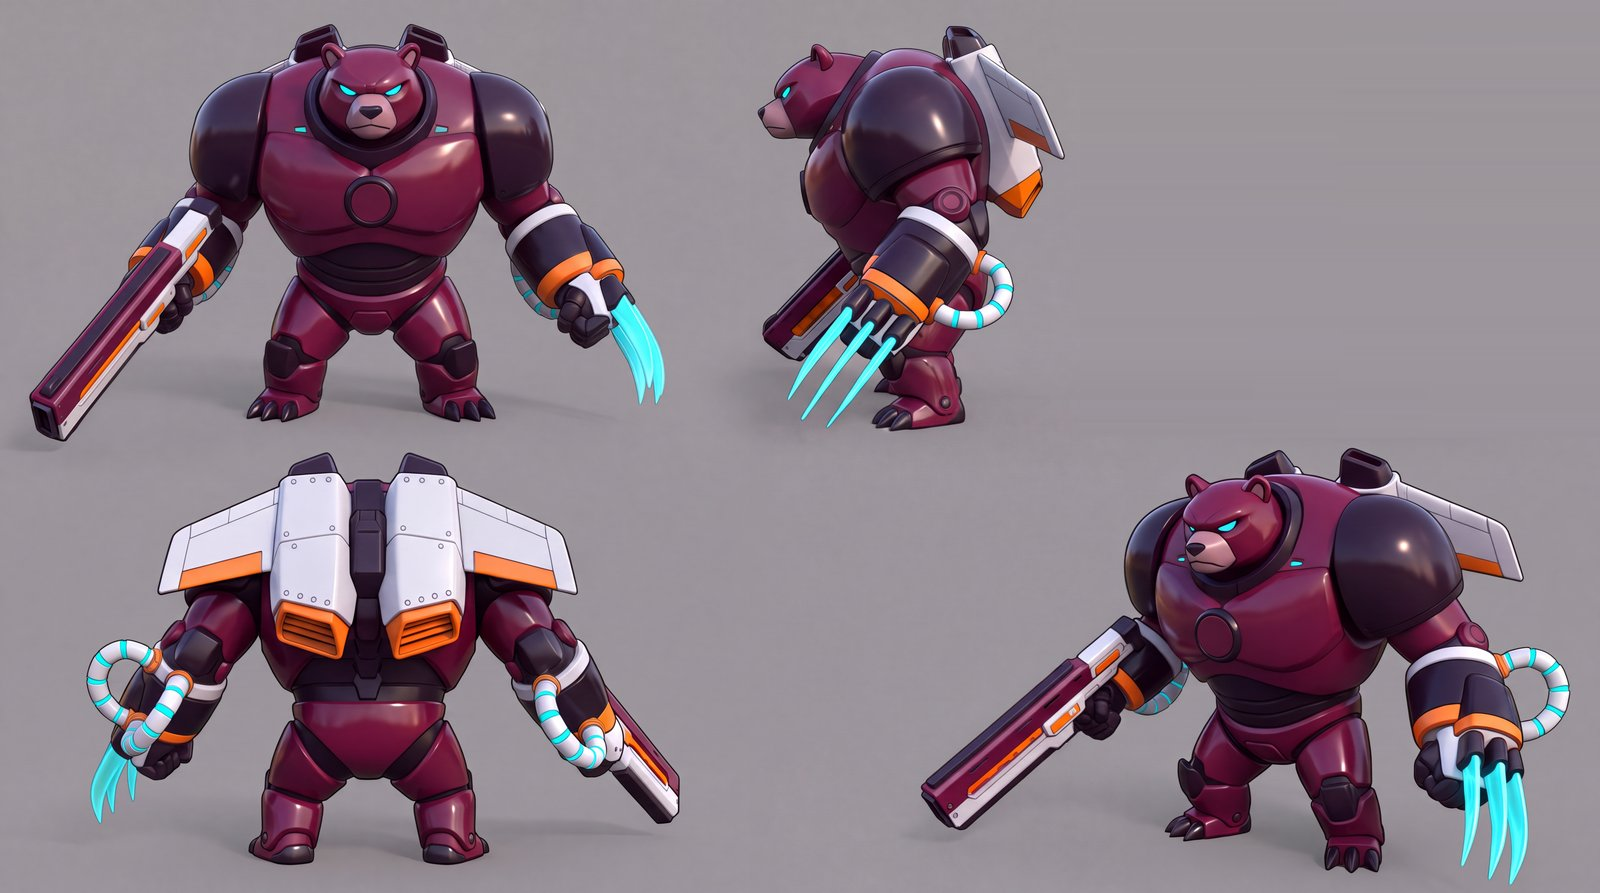
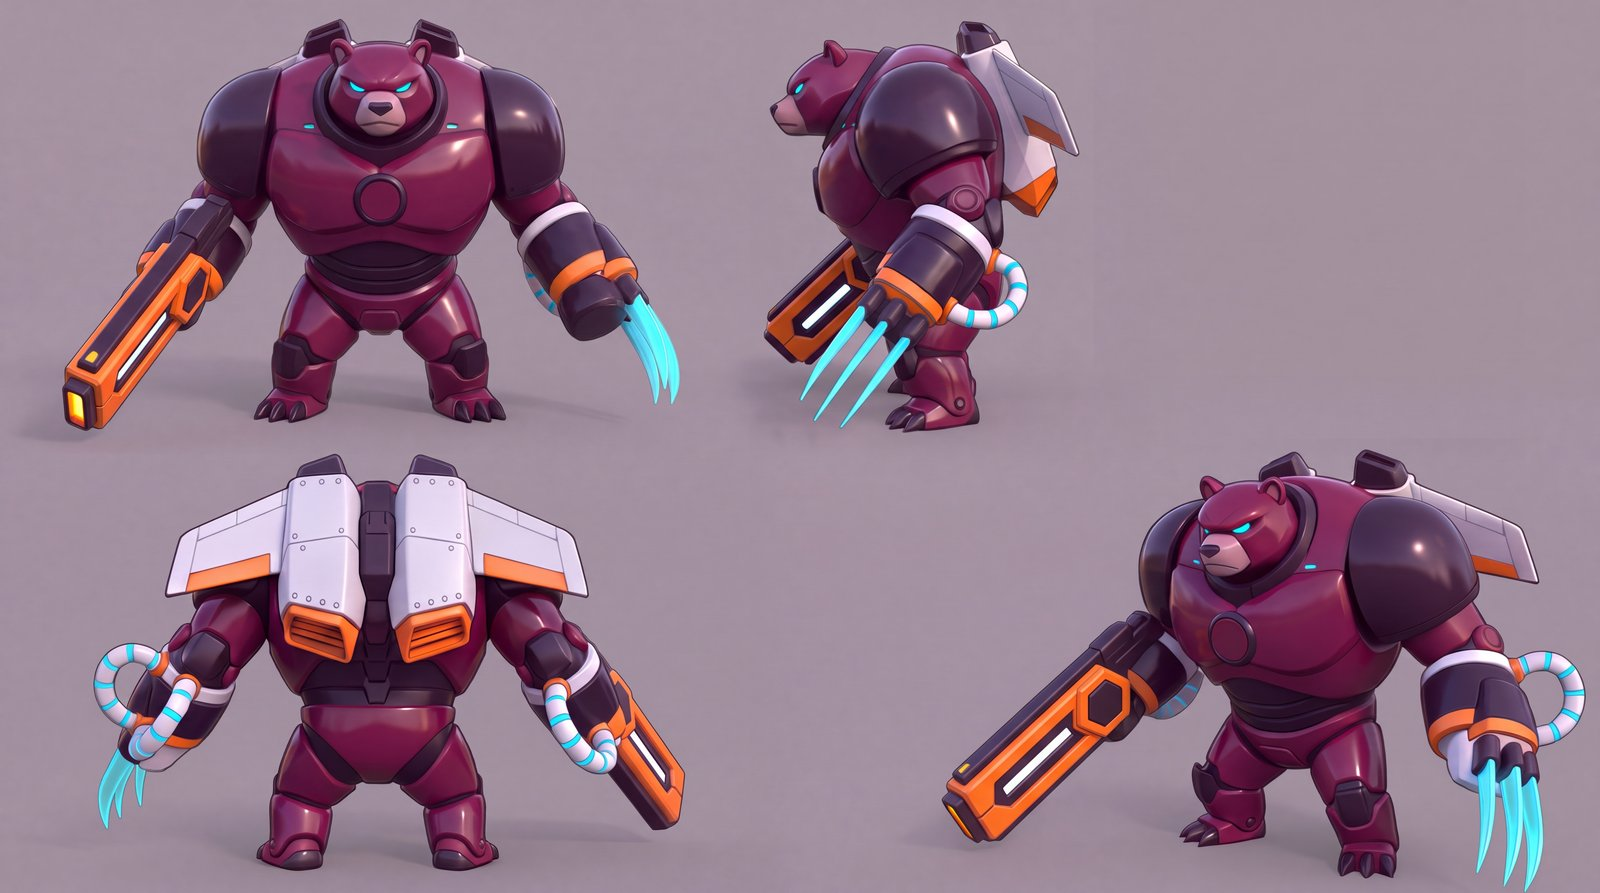
Land the Oct 22 sheet fixes for Sanchez, Wil and B-1000
Sanchez now has helmet ear bumps, an armoured shoulder and a dark grey
glove. Wil now has glowing elbow pads. B-1000 has no hands: the rail-gun
is built onto his forearm and the claws come out of an end cap. The
Huggable edit was refused by a false content flag and is queued again.

Claude-Session: https://claude.ai/code/session_01P8G1q2LqE1hzznh79F6qfK

Changed region(s): [[0.0, 0.0, 0.4375, 0.9978], [0.5625, 0.4838, 1.0, 0.9978], [0.4688, 0.0, 0.6875, 0.4838]]

diff --git a/bbg-news-repo/characters/sheets/SHEETS.md b/bbg-news-repo/characters/sheets/SHEETS.md
@@ -18,12 +18,12 @@ These are the Element sheets: one 4K model sheet per character, in the feature-f
 | Tillman | `tillman-demolition` | 17b76e5f-993a-4ecd-913d-afe450592e59 (edit of 09ba5b80) | 2026-10-21 | Minor |
 | Huggable | `huggable-huggable` | b2a3f65d-8cfd-4e1b-a9f8-cf8cabc80828 (edit of 0680a612) | 2026-10-21 | Fix (queued) |
 | Astoria | `astoria-sniper` | 64d65c16-9fee-4a3d-a172-1069e1f65869; mirrored upload fcc7f1f4-8599-4812-b509-b0782b6f53a5 | 2026-10-20 | Pass, mirrored |
-| Wil | `wil-chub-scout` | 20f40c63-0d5a-49dd-895a-e7f6fad27c50 | 2026-10-19 | Minor (fix queued) |
+| Wil | `wil-chub-scout` | 5b633f8e-10ee-445f-ba46-ba62e1b26f90 (edit of 20f40c63) | 2026-10-22 | Pass |
 | Graham | `graham-engineer` | 55c688d8-bcd6-4a48-9060-b21ef3051a2a (edit of a0a6b54f); mirrored upload d70599fa-9bd9-48b6-b88f-a4884ecce247 | 2026-10-21 | Minor, mirrored |
-| B-1000 | `b-1000-assault-signature` | 981cb097-1709-4236-b1a3-3b6914a4df87 (edit of 1f7259ce); trimmed upload 6e0f1d8f-7123-4b28-b67d-3bf114cdf1cd | 2026-10-21 | Fix (queued) |
+| B-1000 | `b-1000-assault-signature` | 72dd6050-d1d8-4b2f-9912-1c6ceb7408ac (third edit, from 1f7259ce) | 2026-10-22 | Minor |
 | Botch | `botch-assassin` | b6d6028f-8288-42ad-9277-ca9fdcebf9f8 | 2026-10-20 | Minor |
 | Saberi | `saberi-combat-tech` | 8635a36f-35b4-472e-8f8f-945eae9905e8; mirrored upload bf7b803c-eba5-4840-99a7-7c8d93b260fc | 2026-10-20 | Pass, mirrored |
-| Sanchez | `sanchez-arbiter` | d3d31719-ebf4-459d-94db-d96e2b1316f8 | 2026-10-21 | Fix (queued) |
+| Sanchez | `sanchez-arbiter` | 859e4e24-d0f5-4e2b-b02a-352dd7df85b3 (edit of d3d31719) | 2026-10-22 | Pass |
 
 ## QA notes
 
@@ -52,19 +52,20 @@ These are the Element sheets: one 4K model sheet per character, in the feature-f
   - Still wrong: the bandage and radio stayed on its left.
   - Next step (queued):
     - The sheet has been mirrored locally, which puts the bandage and radio on its right but the button eye on its left.
-    - The queued edit moves the button eye and its scar under the bandage.
+    - The queued edit moves the button eye and its stitches under the bandage.
+    - The Oct 22 try was refused by Higgsfield's content filter, a false positive on a plush toy; it was not charged. It is queued again with plainer wording.
   - The preview here is the unmirrored edit.
 - **Astoria: pass, mirrored.**
   - The raw output had her pouch and the hand on her hip on her left. The mirrored file puts both on her right, as the soul says.
   - Matches the soul: cream plush, heavy-lidded teal eyes, red gloves, quilted maroon belt and red-and-white boots.
   - Minor: the backpack straps are brown leather; the soul calls them red.
-- **Wil: minor.**
+- **Wil: pass** (after the Oct 22 edit).
   - Matches the soul:
     - the upright ears, and the red padded helmet with vents and chin strap;
     - the ice-pop tank top with drip and stick;
-    - the glowing red knee pads;
+    - black elbow bands with glowing red pads, matching the glowing red knee pads;
     - the rear-facing lens backpack.
-  - Minor: the elbow bands sit high and have no glowing red pads. A fix is queued.
+  - Nothing else changed in the edit.
 - **Graham: minor, mirrored** (after the Oct 21 edit).
   - The edit landed:
     - soft plush fur instead of vinyl;
@@ -75,16 +76,16 @@ These are the Element sheets: one 4K model sheet per character, in the feature-f
     - the radio pack's top sits at shoulder height, not level with the hat brim;
     - after the mirror, the antenna rises from the pack's top right corner instead of its top left.
   - Usable.
-- **B-1000: fix** (after the Oct 21 edit).
-  - The edit landed:
+- **B-1000: minor** (after three edits, Oct 21-22).
+  - Matches the soul:
+    - no hands: the rail-gun is built onto his right forearm (the viewer's left in the front view), hanging muzzle-down;
+    - the rail-gun is an orange-and-black slab with an orange hexagonal plate, a white light bar and a glowing yellow-orange tip;
+    - the claws come straight out of a black end cap on the left forearm, with the looping white hose with cyan rings;
     - the plain round chest disc;
-    - the looping white hose with cyan rings.
-  - Both the original and the edit have a second back view, upper right, with claws on both arms. It was blanked locally, which leaves four views.
-  - Still wrong:
-    - a black hand still grips the rail-gun;
-    - the claws still come out of a black fist;
-    - in the back view, a hose sits on the rail-gun arm too.
-  - The soul says neither forearm has a hand. A stronger "arm cannon" edit is queued first, because Episode 1's cold open needs it.
+    - the white-and-orange winged jump-pack;
+    - the low head with cyan eye-slits.
+  - The first edit's sheet had a second, wrong back view, which was blanked locally before the later edits. This sheet has four views.
+  - Minor: a short stretch of the white hose also shows on the rail-gun arm in the back and three-quarter views. A cleanup edit is written.
 - **Botch: minor.**
   - Matches the soul: plum-black plush, the big round head, grey muzzle, glowing lime eyes with no pupils, silver arm guards with red lights, the small backpack with red circle markings, and the float with lime particles.
   - Minor: the bite notch in one ear is missing.
@@ -99,29 +100,24 @@ These are the Element sheets: one 4K model sheet per character, in the feature-f
     - log mallet with a yellow collar.
   - Minor: this sheet has three views; it has no three-quarter view.
 
-- **Sanchez: fix** (new on Oct 21).
+- **Sanchez: pass** (after the Oct 22 edit). This is the unarmed Element variant.
   - Matches the soul:
+    - a dark maroon helmet with rounded maroon ear bumps moulded into it, and no furry ears;
+    - a rounded red-and-black armoured shoulder on the mechanical arm;
     - the mechanical arm is on his right, thicker than his left arm, with red light strips and the forearm lamp;
-    - opaque glowing red visor with no eyes, light tan face, goatee and flat mouth;
-    - grey-khaki chest plate over grey-and-white camo, olive-and-tan camo trousers and dark boots;
+    - an opaque glowing red visor with no eyes, a light tan face, a goatee and a flat mouth;
+    - a grey-khaki chest plate over grey-and-white camo, olive-and-tan camo trousers and dark boots;
+    - a dark grey glove on his left hand;
     - empty hands.
-  - Wrong:
-    - furry tan ears stick up through the helmet; the soul has rounded maroon ear bumps moulded into the helmet;
-    - the camo sleeve covers the top of the arm; the soul has a rounded red-and-black armoured shoulder;
-    - the left glove is khaki; the soul says dark grey.
-  - A fix is queued with B-1000's, for Episode 1.
 
 ## Queued for the next daily reset
 
-The edit prompts are in the research scratchpad (`shorts/sheets_v2/fix_prompts_v2.json`). Each one keeps the sheet and changes only the listed details. They run in this order:
+The edit prompts are in the research scratchpad (`shorts/sheets_v2/fix_prompts_v3.json`). Each one keeps the sheet and changes only the listed details. They run in this order:
 
-1. B-1000: no hands; the rail-gun is fused to the forearm, and the claws come out of an end cap.
-2. Sanchez: helmet ear bumps, an armoured shoulder and a dark grey glove.
-3. Wil: elbow bands with glowing red pads.
-4. Huggable: the button eye moves under the bandage (on the mirrored sheet).
+1. Huggable: the button eye moves under the bandage (on the mirrored sheet).
+2. The blue-team Huggable, made from slot 1's result if it passes.
+3. Tillman: remove the waist sash, and add wheel housings.
+4. Graham: three arm stripes, a taller pack, and the antenna on the top left.
 5. The first that applies:
-   - a retry of B-1000 or Sanchez if it fails QA;
-   - otherwise the blue-team Huggable;
-   - otherwise the Tillman cleanup.
-
-Graham's remaining minors (stripe count, pack height, antenna corner) wait until the daily limit lifts.
+   - a retry of slot 1;
+   - otherwise the B-1000 hose cleanup.
